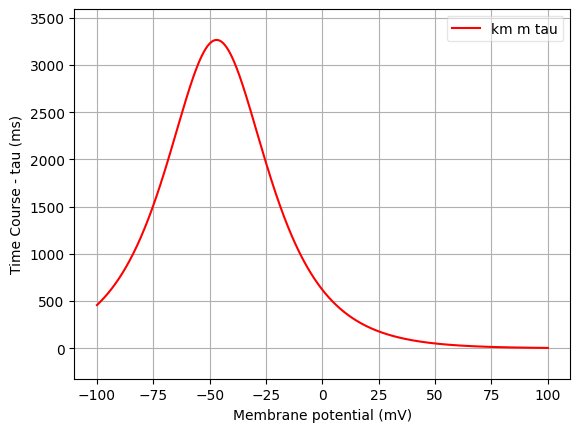
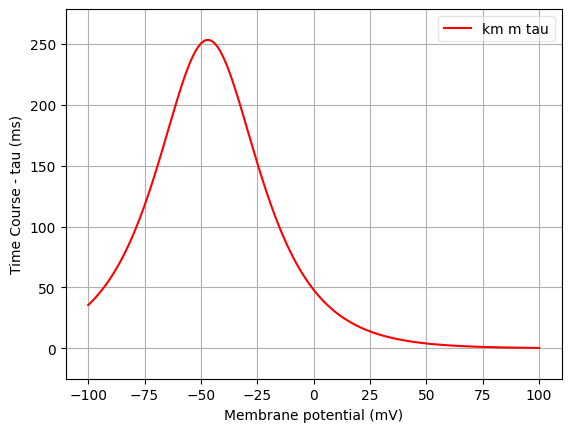
Updated the readme.md using the updated template

diff --git a/NeuroML2/channel_summary/ChannelInfo.html b/NeuroML2/channel_summary/ChannelInfo.html
@@ -2,51 +2,8 @@
     <title>Channel information</title>
     
     <body>
-        <p style="font-family:arial">Channel information at: T = 6.3 degC, E_rev = 0 mV, [Ca2+] = 5e-05 mM</p>
+        <p style="font-family:arial">Channel information at: T = 37.0 degC, E_rev = 0 mV, [Ca2+] = 5e-05 mM</p>
         <table>
-            <tr>
-        <td width="130px">
-            <p style="font-size:80%;font-family:arial"><b>nat</b></p>
-            <p style="font-size:80%;font-family:arial"><a href="../nat.channel.nml">nat.channel.nml</a></p>
-            <p style="font-size:80%;background-color:#1E90FF;"><b>Ion: na</b></p>
-            <p style="font-size:80%;font-family:arial">g = gmax * m<sup>3</sup> * h </p><br/>
-            <p style="font-size:80%;font-family:arial">Sodium channel, Hodgkin-Huxley style kinetics.
-
-
-            Comments from original mod file:
-
-            26 Ago 2002 Modification of original channel to allow variable time step and to correct an initialization
-            error.
-            Done by Michael Hines(michael.hines@yale.e) and Ruggero Scorcioni(rscorcio@gmu.edu) at EU Advance Course in
-            Computational Neuroscience. Obidos, Portugal
-
-            na.mod
-
-            Sodium channel, Hodgkin-Huxley style kinetics.
-
-            Kinetics were fit to data from Huguenard et al. (1988) and Hamill et
-            al. (1991)
-
-            qi is not well constrained by the data, since there are no points
-            between -80 and -55. So this was fixed at 5 while the thi1,thi2,Rg,Rd
-            were optimized using a simplex least square proc
-
-            voltage dependencies are shifted approximately from the best
-            fit to give higher threshold
-
-            Author: Zach Mainen, Salk Institute, 1994, zach@salk.edu
-
-            May 2006: set the tha -28 mV, vshift 0 and thinf -55 mV to comply with measured
-            Somatic Na+ kinetics in neocortex. Kole, ANU, 2006
-        </p><br/>
-        </td>
-        <td>
-        <a href="nat.inf.png"><img alt="nat steady state" src="nat.inf.png" height="300"/></a>
-        </td>
-        <td>
-        <a href="nat.tau.png"><img alt="nat time course" src="nat.tau.png" height="300"/></a>
-        </td>
-        </tr>
             <tr>
         <td width="130px">
             <p style="font-size:80%;font-family:arial"><b>nap</b></p>
@@ -64,22 +21,48 @@
         </tr>
             <tr>
         <td width="130px">
+            <p style="font-size:80%;font-family:arial"><b>nat</b></p>
+            <p style="font-size:80%;font-family:arial"><a href="../nat.channel.nml">nat.channel.nml</a></p>
+            <p style="font-size:80%;background-color:#1E90FF;"><b>Ion: na</b></p>
+            <p style="font-size:80%;font-family:arial">g = gmax * m<sup>3</sup> * h </p><br/>
+            <p style="font-size:80%;font-family:arial">Sodium channel, Hodgkin-Huxley style kinetics.
+            Comments from original mod file:
+            26 Ago 2002 Modification of original channel to allow variable time step and to correct an initialization
+            error.
+            Done by Michael Hines(michael.hines@yale.e) and Ruggero Scorcioni(rscorcio@gmu.edu) at EU Advance Course in
+            Computational Neuroscience. Obidos, Portugal
+            Sodium channel, Hodgkin-Huxley style kinetics.
+            Kinetics were fit to data from Huguenard et al. (1988) and Hamill et
+            al. (1991)
+            qi is not well constrained by the data, since there are no points
+            between -80 and -55. So this was fixed at 5 while the thi1,thi2,Rg,Rd
+            were optimized using a simplex least square proc.
+            Voltage dependencies are shifted approximately from the best
+            fit to give higher threshold
+            Author: Zach Mainen, Salk Institute, 1994, zach@salk.edu
+            May 2006: set the tha -28 mV, vshift 0 and thinf -55 mV to comply with measured
+            Somatic Na+ kinetics in neocortex. Kole, ANU, 2006
+        </p><br/>
+        </td>
+        <td>
+        <a href="nat.inf.png"><img alt="nat steady state" src="nat.inf.png" height="300"/></a>
+        </td>
+        <td>
+        <a href="nat.tau.png"><img alt="nat time course" src="nat.tau.png" height="300"/></a>
+        </td>
+        </tr>
+            <tr>
+        <td width="130px">
             <p style="font-size:80%;font-family:arial"><b>kfast</b></p>
             <p style="font-size:80%;font-family:arial"><a href="../kfast.channel.nml">kfast.channel.nml</a></p>
             <p style="font-size:80%;background-color:#CD5C5C;"><b>Ion: k</b></p>
             <p style="font-size:80%;font-family:arial">g = gmax * n </p><br/>
             <p style="font-size:80%;font-family:arial">Potassium channel, Hodgkin-Huxley style kinetics
-
             Comments from original mod file:
-
             26 Ago 2002 Modification of original channel to allow variable time step and to correct an initialization error.
             Done by Michael Hines(michael.hines@yale.e) and Ruggero Scorcioni(rscorcio@gmu.edu) at EU Advance Course in Computational Neuroscience. Obidos, Portugal
-
-            kv.mod
-
             Potassium channel, Hodgkin-Huxley style kinetics
             Kinetic rates based roughly on Sah et al. and Hamill et al. (1991)
-
             Author: Zach Mainen, Salk Institute, 1995, zach@salk.edu
         </p><br/>
         </td>

diff --git a/NeuroML2/channel_summary/README.md b/NeuroML2/channel_summary/README.md
@@ -1,59 +1,18 @@
 Channel information
 ===================
     
-<p style="font-family:arial">Channel information at: T = 6.3 degC, E_rev = 0 mV, [Ca2+] = 5e-05 mM</p>
+<p style="font-family:arial">Channel information at: T = 37.0 degC, E_rev = 0 mV, [Ca2+] = 5e-05 mM</p>
 
 <table>
     <tr>
-<td width="120px">
-            <sup><b>nat</b><br/>
-            <a href="../nat.channel.nml">nat.channel.nml</a><br/>
-            <b>Ion: na</b><br/>
-            <i>g = gmax * m<sup>3</sup> * h </i><br/>
-            Sodium channel, Hodgkin-Huxley style kinetics.
-
-
-            Comments from original mod file:
-
-            26 Ago 2002 Modification of original channel to allow variable time step and to correct an initialization
-            error.
-            Done by Michael Hines(michael.hines@yale.e) and Ruggero Scorcioni(rscorcio@gmu.edu) at EU Advance Course in
-            Computational Neuroscience. Obidos, Portugal
-
-            na.mod
-
-            Sodium channel, Hodgkin-Huxley style kinetics.
-
-            Kinetics were fit to data from Huguenard et al. (1988) and Hamill et
-            al. (1991)
-
-            qi is not well constrained by the data, since there are no points
-            between -80 and -55. So this was fixed at 5 while the thi1,thi2,Rg,Rd
-            were optimized using a simplex least square proc
-
-            voltage dependencies are shifted approximately from the best
-            fit to give higher threshold
-
-            Author: Zach Mainen, Salk Institute, 1994, zach@salk.edu
-
-            May 2006: set the tha -28 mV, vshift 0 and thinf -55 mV to comply with measured
-            Somatic Na+ kinetics in neocortex. Kole, ANU, 2006
-        </sup>
-</td>
-<td>
-<a href="nat.inf.png"><img alt="nat steady state" src="nat.inf.png" height="220"/></a>
-</td>
-<td>
-<a href="nat.tau.png"><img alt="nat time course" src="nat.tau.png" height="220"/></a>
-</td>
-</tr>
-    <tr>
-<td width="120px">
+<td style="max-width: 120px;">
             <sup><b>nap</b><br/>
             <a href="../nap.channel.nml">nap.channel.nml</a><br/>
             <b>Ion: na</b><br/>
+            <b>
             <i>g = gmax * m </i><br/>
-            NeuroML2 file automatically generated from NMODL file: ./NEURON/channels/nap.mod</sup>
+            </b>
+            <div style="background-color:#eee">NeuroML2 file automatically generated from NMODL file: ./NEURON/channels/nap.mod</div></sup>
 </td>
 <td>
 <a href="nap.inf.png"><img alt="nap steady state" src="nap.inf.png" height="220"/></a>
@@ -63,25 +22,55 @@ Channel information
 </td>
 </tr>
     <tr>
-<td width="120px">
+<td style="max-width: 120px;">
+            <sup><b>nat</b><br/>
+            <a href="../nat.channel.nml">nat.channel.nml</a><br/>
+            <b>Ion: na</b><br/>
+            <b>
+            <i>g = gmax * m<sup>3</sup> * h </i><br/>
+            </b>
+            <div style="background-color:#eee">Sodium channel, Hodgkin-Huxley style kinetics.
+            Comments from original mod file:
+            26 Ago 2002 Modification of original channel to allow variable time step and to correct an initialization
+            error.
+            Done by Michael Hines(michael.hines@yale.e) and Ruggero Scorcioni(rscorcio@gmu.edu) at EU Advance Course in
+            Computational Neuroscience. Obidos, Portugal
+            Sodium channel, Hodgkin-Huxley style kinetics.
+            Kinetics were fit to data from Huguenard et al. (1988) and Hamill et
+            al. (1991)
+            qi is not well constrained by the data, since there are no points
+            between -80 and -55. So this was fixed at 5 while the thi1,thi2,Rg,Rd
+            were optimized using a simplex least square proc.
+            Voltage dependencies are shifted approximately from the best
+            fit to give higher threshold
+            Author: Zach Mainen, Salk Institute, 1994, zach@salk.edu
+            May 2006: set the tha -28 mV, vshift 0 and thinf -55 mV to comply with measured
+            Somatic Na+ kinetics in neocortex. Kole, ANU, 2006
+        </div></sup>
+</td>
+<td>
+<a href="nat.inf.png"><img alt="nat steady state" src="nat.inf.png" height="220"/></a>
+</td>
+<td>
+<a href="nat.tau.png"><img alt="nat time course" src="nat.tau.png" height="220"/></a>
+</td>
+</tr>
+    <tr>
+<td style="max-width: 120px;">
             <sup><b>kfast</b><br/>
             <a href="../kfast.channel.nml">kfast.channel.nml</a><br/>
             <b>Ion: k</b><br/>
+            <b>
             <i>g = gmax * n </i><br/>
-            Potassium channel, Hodgkin-Huxley style kinetics
-
+            </b>
+            <div style="background-color:#eee">Potassium channel, Hodgkin-Huxley style kinetics
             Comments from original mod file:
-
             26 Ago 2002 Modification of original channel to allow variable time step and to correct an initialization error.
             Done by Michael Hines(michael.hines@yale.e) and Ruggero Scorcioni(rscorcio@gmu.edu) at EU Advance Course in Computational Neuroscience. Obidos, Portugal
-
-            kv.mod
-
             Potassium channel, Hodgkin-Huxley style kinetics
             Kinetic rates based roughly on Sah et al. and Hamill et al. (1991)
-
             Author: Zach Mainen, Salk Institute, 1995, zach@salk.edu
-        </sup>
+        </div></sup>
 </td>
 <td>
 <a href="kfast.inf.png"><img alt="kfast steady state" src="kfast.inf.png" height="220"/></a>
@@ -91,12 +80,14 @@ Channel information
 </td>
 </tr>
     <tr>
-<td width="120px">
+<td style="max-width: 120px;">
             <sup><b>km</b><br/>
             <a href="../IKM.channel.nml">IKM.channel.nml</a><br/>
             <b>Ion: k</b><br/>
+            <b>
             <i>g = gmax * m </i><br/>
-            NeuroML2 file automatically generated from NMODL file: ./NEURON/channels/IKM.mod</sup>
+            </b>
+            <div style="background-color:#eee">NeuroML2 file automatically generated from NMODL file: ./NEURON/channels/IKM.mod</div></sup>
 </td>
 <td>
 <a href="km.inf.png"><img alt="km steady state" src="km.inf.png" height="220"/></a>
@@ -106,4 +97,3 @@ Channel information
 </td>
 </tr>
 </table>
-
